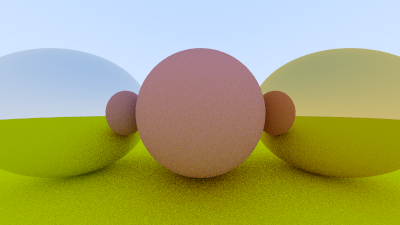
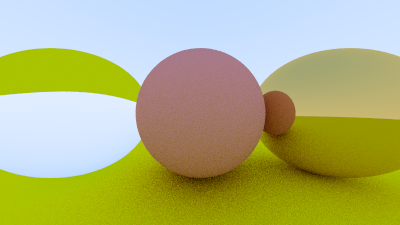
Task 9.1-3 Glass

Changed region(s): [[0.0, 0.1867, 0.57, 0.9333], [0.6, 0.6844, 0.63, 0.7156], [0.57, 0.7467, 0.6, 0.7778]]

diff --git a/src/material.rs b/src/material.rs
@@ -71,3 +71,29 @@ impl Material for Metal {
         }
     }
 }
+
+#[derive(Debug, Constructor)]
+pub struct Dielectric {
+    ratio: f64,
+}
+
+impl Dielectric {
+    fn refract(inc: Vec3, n: Vec3, ratio: f64) -> Vec3 {
+        let co = -inc.dot(n);
+        let si = (1.0 - co*co).sqrt();
+        if ratio * si > 1.0 { 
+            return Metal::reflect_ray(inc, &n);
+        }
+        let perp = ratio * (inc + n * co);
+        let para = -(1.0 - perp.dot(perp)).abs().sqrt() * n;
+        perp + para
+    }
+}
+
+impl Material for Dielectric {
+    fn scatter(&self, incident_ray: &Ray, hit: &Hit) -> Option<Reflection> {
+        let ratio = if hit.front { 1.0 / self.ratio } else { self.ratio };
+        let refr = Dielectric::refract(incident_ray.dir, hit.n, ratio);
+        Some(Reflection::new(Ray::new(hit.p, refr), v!(1)))
+    }
+}

diff --git a/src/main.rs b/src/main.rs
@@ -8,7 +8,7 @@ use camera::Camera;
 use image::{RgbImage};
 use indicatif::ParallelProgressIterator;
 use lerp::Lerp;
-use material::{Lambertian, Metal};
+use material::{Lambertian, Metal, Dielectric};
 use rand::Rng;
 use ray::Ray;
 use rayon::prelude::*;
@@ -49,7 +49,7 @@ fn main() {
             //left
             v!(-1.0, 0.0, -1.0),
             0.5,
-            Metal::new(v!(0.8, 0.8, 0.8)),
+            Dielectric::new(1.5),
         )),
         Box::new(Sphere::new(
             //right
